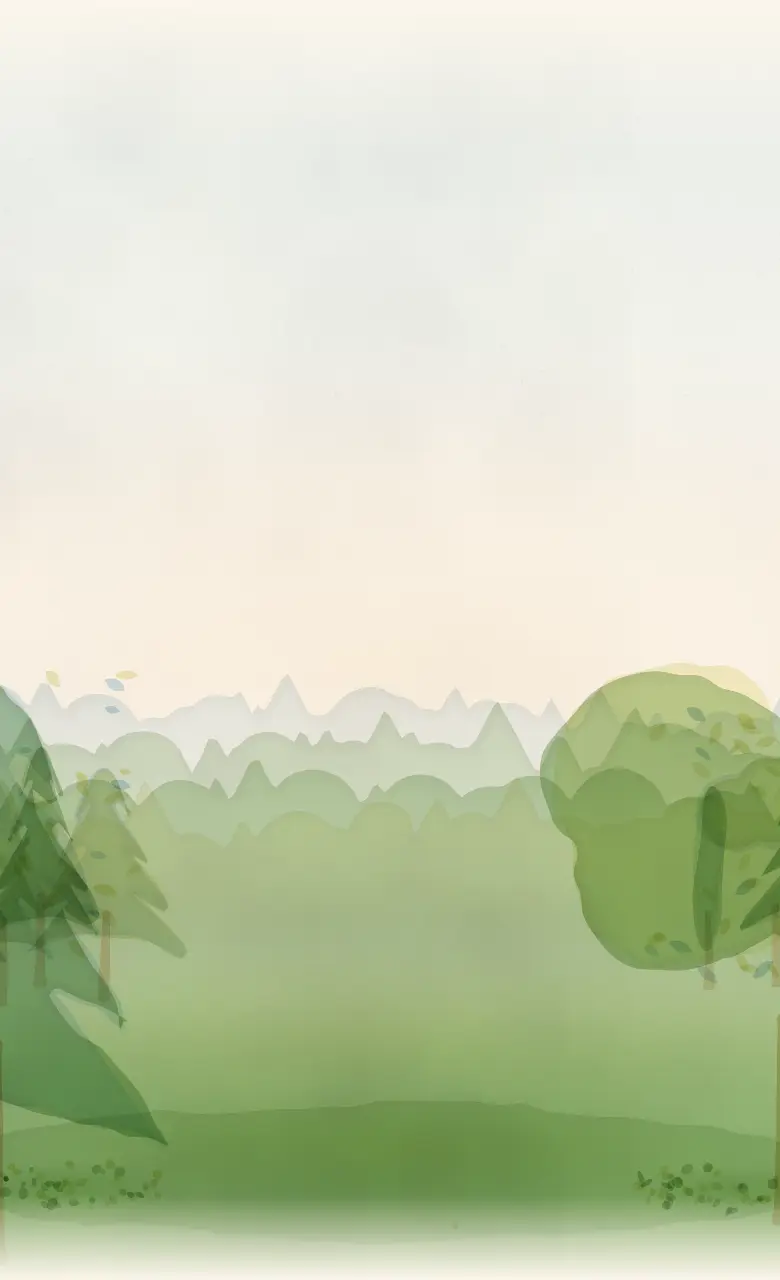
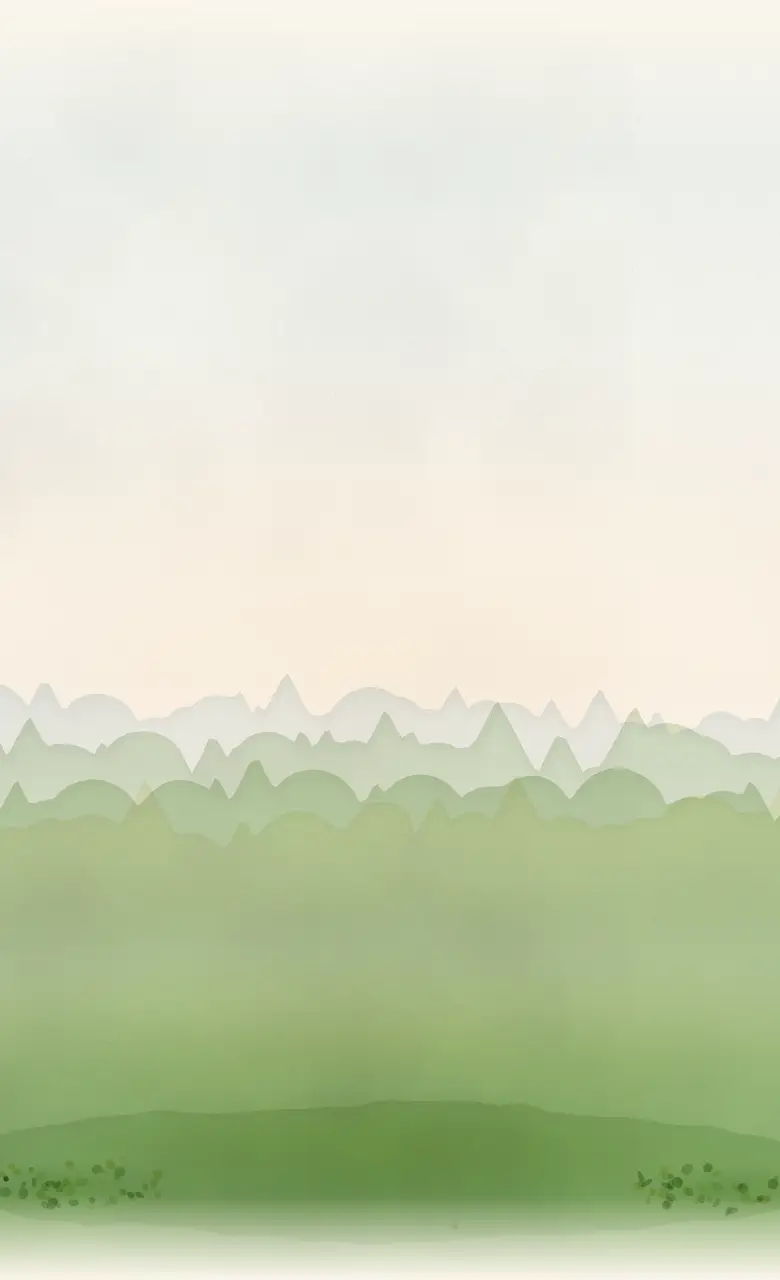
工房ホームページ：森の時間（風でしなる木・飛んできて止まる鳥・雲の影）
- 森の木を部品にして、そよ風と端から端へ渡る突風で、根元を軸にわずかにしなる（木ごとのばね）
- ヤマガラが飛んできて世界樹の枝や洞窟の屋根に止まり、しばらくして飛び去る（昼だけ）。遠くの空を群れが渡ることも
- 雲の影が地面を横切り、その間は陽の光が薄れる（昼だけ）。突風で葉がさらわれる

diff --git a/app.js b/app.js
@@ -1,7 +1,7 @@
 (() => {
   'use strict';
   // 台帳（works.json）は、組み立ての時にここへ流しこむ（ページの外から文字は入らない）
-  const DATA = {"places":[{"id":"roots","name":"根元の工房","sub":"地図と道具","line":"会社の道具を、AIとつくる作業場。連載の中身を、触れる地図と道具にしました。"},{"id":"branch","name":"枝","sub":"カードの花","line":"節目に咲く、仕掛けつきのカード。LINE で送れます。"},{"id":"spring","name":"泉","sub":"音楽","line":"AI音楽工房の MV。工房が企画し、BGM&V Studio が制作しています。"},{"id":"cave","name":"洞窟","sub":"連載と動画","line":"経営者のための連載「AI内製化の羅針盤」と、記事の動画。"},{"id":"cloud","name":"雲の上","sub":"旅","line":"本物の旅のしおりと、想像の世界旅行。"}],"notice":["当工房では職人が気ままに作っているため、突然変更が入ったり、途中でとまっているコンテンツがあったりします。","これは作成途中をリアルタイムにお見せする趣旨のものですので、作りかけの雰囲気も含めて楽しんでもらい、成長を見守っていただけたら幸いです。"],"voices":{"調整中":["ちょっと調整中。見てもいいけど変なところがあっても気にしないでね。","いま、ねじを締め直しているところ。動くけど、ときどきガタッとするかも。","仕上げの真っ最中！ 気づいたことがあったら、そっと教えてね。","ただいま磨き中。ピカピカになるまで、もう少し。"],"作りかけ":["ただいま作りかけ。リアルタイム進行中。","まだ骨組みだけど、のぞいていってね。","作っている途中をそのまま見せちゃうよ。明日には変わってるかも！","工房の机の上で、いま組み立て中。"],"準備中":["今作成中だよ！もうすぐ公開するね！","まだ種の中。芽が出たら、ここでお知らせするね。","いま、絵の具を溶いているところ。もう少しだけ待っててね。","職人がこっそり仕込み中。お楽しみに！"]},"works":[{"place":"roots","group":"3Dの地図","kind":"触れる","name":"4つの島の航海図（利益マップ）","note":"「何から入れると儲かる？」を、3Dの海図に。","url":"https://tatatasan323-cell.github.io/note-app/"},{"place":"roots","group":"3Dの地図","kind":"触れる","name":"天空の城への道（内製化ロードマップ）","note":"6つの関門を越えて、天空の城へ。","url":"https://tatatasan323-cell.github.io/note-app/road.html"},{"place":"roots","group":"3Dの地図","kind":"触れる","name":"AIの全体地図（6層＋4横断面）","note":"会社のAIの仕組みを、6つの層で見る。","url":"https://tatatasan323-cell.github.io/note-app/arch.html"},{"place":"roots","group":"3Dの地図","kind":"触れる","name":"そもそもAIって？ 5部作の地図","note":"「そもそもAIって？」5本の地図。","url":"https://tatatasan323-cell.github.io/note-app/aimap/"},{"place":"roots","group":"道具","kind":"触れる","name":"城 ─ 経営ステータス","note":"社長の一枚画面。架空の会社で動くデモ。","url":"https://tatatasan323-cell.github.io/castle/"},{"place":"roots","group":"道具","kind":"触れる","name":"転記ゼロ（tenki-zero 体験版）","note":"転記の手作業をなくす仕組みを、ブラウザで試す。","url":"https://tatatasan323-cell.github.io/tenki-zero/"},{"place":"roots","group":"手引き","kind":"読む","name":"AIエージェント利用ガイド","note":"部下としてハーネスする。社内で配れる手引き。","url":"https://tatatasan323-cell.github.io/note-app/ai-agent-guide.html"},{"place":"roots","group":"手引き","kind":"読む","name":"乗っ取り対策の手引き","note":"パスキーでも守れない、2つの穴。","url":"https://tatatasan323-cell.github.io/note-app/security-guide.html"},{"place":"roots","group":"手引き","kind":"読む","name":"会社のセキュリティ段階表","note":"自社の段階を確かめる表。","url":"https://tatatasan323-cell.github.io/note-app/security-levels.html"},{"place":"roots","group":"時報","kind":"読む","name":"ＡＩ内製化時報 第001号","note":"システムプロンプト、八割削除。","url":"https://tatatasan323-cell.github.io/note-app/jihou-001.html"},{"place":"roots","group":"時報","kind":"読む","name":"ＡＩ内製化時報 第002号","note":"穴を空けたのはAI、突いたのもAI。","url":"https://tatatasan323-cell.github.io/note-app/jihou-002.html"},{"place":"roots","group":"工房のこれから","kind":"歩く","status":"準備中","name":"世界樹の村（3Dで歩ける町）","note":"この地図の本から入って、村を歩けるようにします。","url":""},{"place":"branch","group":"カード","kind":"触れる","name":"ハロウィン招待状 ─ おばけの庭へようこそ","note":"おばけに触れると、音と豆知識。","url":"https://tatatasan323-cell.github.io/gimmick-cards/halloween/"},{"place":"branch","group":"カード","kind":"触れる","name":"とろけて聖夜 ─ おかしな港町","note":"宝石をはじき、ステンドグラスを割り、氷を削る冬の港町（動く3D）。","url":"https://tatatasan323-cell.github.io/gimmick-cards/christmas-town/"},{"place":"branch","group":"カード","kind":"触れる","name":"とろけて聖夜 ─ X'mas グリーティングカード","note":"港町とつながるカード。","url":"https://tatatasan323-cell.github.io/gimmick-cards/christmas-town/card.html"},{"place":"branch","group":"カード","kind":"触れる","status":"調整中","name":"正月のカード ─ 作品の一覧","note":"正月のカード 76 作。絵を押すと、さわって動く本物が開きます。","url":"https://ai-naiseika.github.io/cards/shogatsu/"},{"place":"branch","group":"カード","kind":"触れる","status":"作りかけ","name":"送る予定 ─ 節目のカード","note":"カードを、あとで送るための予定。時間になったら、スマホのカレンダーが知らせます。","url":"https://ai-naiseika.github.io/cards/yotei/"},{"place":"spring","group":"MV","kind":"見る","name":"雨上がりの小径 ― 水たまりを、跳んでいたころ","note":"最初の MV。","date":"2026-10-06","url":"https://youtu.be/yi53ACtNxp8"},{"place":"spring","group":"MV","kind":"見る","name":"パンプキン・ポン！ ― ハロウィンの夜のドキドキ","note":"切り絵の魔女とモンスターの踊り。","date":"2026-10-14","url":"https://youtu.be/uFx4Vcr8o8A"},{"place":"spring","group":"MV","kind":"見る","name":"Friends Around the Table ─ テーブルに集まれ！","note":"クリスマス3部作の1本目。","date":"2026-10-19","url":"https://youtu.be/pEvqS5da3-s"},{"place":"spring","group":"MV","kind":"見る","name":"Christmas Feels Like Being ─ きみといる、それがクリスマス","note":"クリスマス3部作の2本目。","date":"2026-10-20","url":"https://youtu.be/Z6vJkx9_u-s"},{"place":"spring","group":"MV","kind":"見る","name":"Singing Glory ─ グローリー・グローリー！","note":"クリスマス3部作の3本目。","date":"2026-10-23","url":"https://youtu.be/oR3KyE3Zmxo"},{"place":"cave","group":"記事の動画","kind":"見る","name":"AI導入、なぜ罠にはまる？ ─ 天空の城へ続く「6つの関門」","note":"","date":"2026-10-13","url":"https://youtu.be/-Dja11xVGzQ"},{"place":"cave","group":"記事の動画","kind":"見る","name":"AI導入、まず何から？ ─ 儲けにつながる「4つの島」の航海図","note":"","date":"2026-10-10","url":"https://youtu.be/xKATNxc-q50"},{"place":"cave","group":"記事の動画","kind":"見る","name":"動画生成AIなしで描いた26の画風 ── コードで描くアニメーション見本帳","note":"","date":"2026-10-07","url":"https://youtu.be/dQ2MLnKi8rE"},{"place":"cave","group":"記事の動画","kind":"見る","name":"DeepSeekなど中国AIは業務に使っていい？ ー 決め手は性能でも価格でもなく「調達」","note":"","date":"2026-10-06","url":"https://youtu.be/P4EKVp7NFms"},{"place":"cave","group":"記事の動画","kind":"見る","name":"「AIで、仕事は消えるのか」──ある会社の \"未来の一日\"【朗読ストーリー】","note":"","date":"2026-08-15","url":"https://youtu.be/s-KqdbO6xWk"},{"place":"cave","group":"記事の動画","kind":"見る","name":"【HTMLとは？ Pythonとは？】 AI内製化の全体像が4分で分かる見取り図","note":"","date":"2026-07-27","url":"https://youtu.be/c1A3KVXweG0"},{"place":"cave","group":"記事の動画","kind":"見る","name":"【スクール不要】月3,000円で始めるAI内製化／総集編・全8話","note":"","date":"2026-07-03","url":"https://youtu.be/3dDNd_MuB0Y"},{"place":"cave","group":"物語","kind":"読む","name":"未来の一日 ─ どこにでもある会社の朝","note":"朗読ストーリーの本。","url":"https://tatatasan323-cell.github.io/note-app/mirai/"},{"place":"cave","group":"連載","kind":"読む","date":"2026-10-19","name":"AI利用、どこから始めるか。答えは「1人」と「1つの痛み」","url":"https://note.com/ai_naiseika/n/n27912da5b3da"},{"place":"cave","group":"連載","kind":"読む","date":"2026-10-13","name":"「スクールもコンサルも要らない」の、本当の意味","url":"https://note.com/ai_naiseika/n/n51217db465e9"},{"place":"cave","group":"連載","kind":"読む","date":"2026-10-12","name":"前橋の観光案内を、AIと2日で作る ー 「確かめた度合い」を隠さない作り方","url":"https://note.com/ai_naiseika/n/n5c6551d1beac"},{"place":"cave","group":"連載","kind":"読む","date":"2026-10-12","name":"工房からの警告 再び ー AIに任せていい所、いけない所","url":"https://note.com/ai_naiseika/n/neb45bbba31cf"},{"place":"cave","group":"連載","kind":"読む","date":"2026-10-10","name":"AIエージェントがあるのに、仕組みを作る理由 ー 内製化すべき2つの場所","url":"https://note.com/ai_naiseika/n/n667d22b71479"},{"place":"cave","group":"連載","kind":"読む","date":"2026-10-07","name":"会話だけで動画を作る ー【脱・動画生成】AIアニメーションの可能性","url":"https://note.com/ai_naiseika/n/na5e82389ac72"},{"place":"cave","group":"連載","kind":"読む","date":"2026-10-06","name":"工房からの警告 ー 「AIが勝手に動き回る？」報道の真偽と、守るべき場所","url":"https://note.com/ai_naiseika/n/n4c308409efd9"},{"place":"cave","group":"連載","kind":"読む","date":"2026-10-03","name":"ある日突然の「アカバン」 ー 生成AIサブスクの落とし穴","url":"https://note.com/ai_naiseika/n/n8923fd964394"},{"place":"cave","group":"連載","kind":"読む","date":"2026-09-29","name":"AI巨額投資の行く末 ー いつか来る「ババ抜き」ゲームの終わり","url":"https://note.com/ai_naiseika/n/nc9e8207bcf78"},{"place":"cave","group":"連載","kind":"読む","date":"2026-09-28","name":"パスキーも乗っ取られる時代に。必ずすべきセキュリティ対策とは。","url":"https://note.com/ai_naiseika/n/n5b747190fa6e"},{"place":"cave","group":"連載","kind":"読む","date":"2026-09-27","name":"AI暴走論と終末論のさなかで ー あなたがすべき一手とは","url":"https://note.com/ai_naiseika/n/nf04f65023439"},{"place":"cave","group":"連載","kind":"読む","date":"2026-09-21","name":"奇跡の37手から10年。中国AIの実力と、日本企業が引くべき一線。","url":"https://note.com/ai_naiseika/n/n31214e08120e"},{"place":"cave","group":"連載","kind":"読む","date":"2026-09-20","name":"AI依存症に陥らないためのガイド ー 「AIに聞く/指示する」2つの違い","url":"https://note.com/ai_naiseika/n/n4193a3063552"},{"place":"cave","group":"連載","kind":"読む","date":"2026-09-14","name":"あなたのAI、期待通り動きますか？ ー AIの力を引き出すための思考法","url":"https://note.com/ai_naiseika/n/n7e4462f1908f"},{"place":"cave","group":"連載","kind":"読む","date":"2026-09-08","name":"バックオフィスが消える日。社内ステータスがリアルに見える未来への羅針盤。","url":"https://note.com/ai_naiseika/n/n07f8688e64df"},{"place":"cave","group":"連載","kind":"読む","date":"2026-08-31","name":"AIが空けた穴を、別のAIが5日で見つけて突く ── 8月までのAI事故と、私の工房の点検結果","url":"https://note.com/ai_naiseika/n/ned77cf0c294e"},{"place":"cave","group":"連載","kind":"読む","date":"2026-08-26","name":"AIのこれから ─ 「情報の土台」を持つことの意味","url":"https://note.com/ai_naiseika/n/n54fd60e90f04"},{"place":"cave","group":"連載","kind":"読む","date":"2026-08-24","name":"AI最前線 ─ 代表5社の現在地と、内製化に使うべき道具","url":"https://note.com/ai_naiseika/n/n06bea781e796"},{"place":"cave","group":"連載","kind":"読む","date":"2026-08-17","name":"OpenAIという物語 ─ 「人類のためのAI」は、どこへ向かっているのか","url":"https://note.com/ai_naiseika/n/n12816bc47432"},{"place":"cave","group":"連載","kind":"読む","date":"2026-08-11","name":"70年というAIの歩み ─ その挑戦と、“ 奇跡の一手 ” と、一本の論文","url":"https://note.com/ai_naiseika/n/n3471aeed4c26"},{"place":"cave","group":"連載","kind":"読む","date":"2026-08-01","name":"AIとは本当は何なのか　優秀な相棒？　頼れる相談役？　得体のしれない何か？","url":"https://note.com/ai_naiseika/n/n33eadda7b1b0"},{"place":"cave","group":"連載","kind":"読む","date":"2026-07-31","name":"経営者が知るべき、最後まで残る仕事 ─ AIが連れて行く “異世界” の話","url":"https://note.com/ai_naiseika/n/ne340418a0949"},{"place":"cave","group":"連載","kind":"読む","date":"2026-07-28","name":"Anthropicが、自社のAI開発ツールの内部指示を8割以上削除。その真意は？","url":"https://note.com/ai_naiseika/n/nec9184d934b1"},{"place":"cave","group":"連載","kind":"読む","date":"2026-07-27","name":"HTMLとは？ Pythonとは？ ─ 目指す内製化を一目で理解する見取り図","url":"https://note.com/ai_naiseika/n/ne47dde16170f"},{"place":"cave","group":"連載","kind":"読む","date":"2026-07-23","name":"AIは本当に安全なのか？ 世間で騒がれているプロンプトインジェクションを回避する唯一の方法とは？","url":"https://note.com/ai_naiseika/n/nd3d82deb2f4f"},{"place":"cave","group":"連載","kind":"読む","date":"2026-07-20","name":"その事務仕事いつまでやるのですか？【２】　例えば転記作業が無くなる日","url":"https://note.com/ai_naiseika/n/n5f46bef5c41b"},{"place":"cave","group":"連載","kind":"読む","date":"2026-07-12","name":"その事務仕事いつまでやるのですか？【１】　例えば明細を放り込むだけのツール","url":"https://note.com/ai_naiseika/n/n56e563d80e2a"},{"place":"cave","group":"連載","kind":"読む","date":"2026-07-06","name":"AI導入、知らないと失敗する ─ 成功に近づくための「内製化ロードマップ」","url":"https://note.com/ai_naiseika/n/nbf98e9add127"},{"place":"cave","group":"連載","kind":"読む","date":"2026-07-04","name":"ぶっちゃけ、AIは何から入れると儲かる？ ─ 経営者のための “利益” の地図","url":"https://note.com/ai_naiseika/n/nb7e3a2ca7fca"},{"place":"cave","group":"連載","kind":"読む","date":"2026-06-29","name":"繰り返し定型作業をAIで ─ 一度の “仕組み” が大切","url":"https://note.com/ai_naiseika/n/n9462746fd8ba"},{"place":"cave","group":"連載","kind":"読む","date":"2026-06-22","name":"メールは良いのに、AIはダメ？ ─ 会社の情報を “どこまで外に出すか”","url":"https://note.com/ai_naiseika/n/n295bc71d253d"},{"place":"cave","group":"連載","kind":"読む","date":"2026-06-15","name":"プロトタイプは早い、本番はその先 ─ 内製化を「育てる」ということ","url":"https://note.com/ai_naiseika/n/n4f8ea3f4696d"},{"place":"cave","group":"連載","kind":"読む","date":"2026-06-12","name":"バイブコーディングが通用しなくなる日 ─ AIに渡す『要件定義』の話","url":"https://note.com/ai_naiseika/n/n5f043fb74a72"},{"place":"cave","group":"連載","kind":"読む","date":"2026-06-09","name":"AIは嘘をつかない。けれど、あなたに「忖度」する","url":"https://note.com/ai_naiseika/n/n34c94b0c2a20"},{"place":"cave","group":"連載","kind":"読む","date":"2026-06-04","name":"AIと迷走しないために、最初にやるべきこと","url":"https://note.com/ai_naiseika/n/nb72e3552d43d"},{"place":"cave","group":"連載","kind":"読む","date":"2026-05-31","name":"AIエージェントを、今日入れる ─ 使い方も、AIに聞けばいい","url":"https://note.com/ai_naiseika/n/n808d67e92440"},{"place":"cave","group":"連載","kind":"読む","date":"2026-05-26","name":"「こうしたい」と伝えるだけで、何かが作れる時代","url":"https://note.com/ai_naiseika/n/n912fbc83f1c6"},{"place":"cave","group":"連載","kind":"読む","date":"2026-05-25","name":"料理人だった私が、AI内製化でシステムを作れる理由","url":"https://note.com/ai_naiseika/n/nd6a51b98694c"},{"place":"cave","group":"連載","kind":"読む","date":"2026-05-18","name":"AIを学ぶのに「スクール」「コンサル」が要らない新時代","url":"https://note.com/ai_naiseika/n/ndfc95eb3f0fa"},{"place":"cloud","group":"旅のしおり","kind":"使う","name":"前橋まちあるき（12/20 まで）","note":"芸術祭と「詩のまち」を歩く案内。確かめた度合いを印で示す。","url":"https://tatatasan323-cell.github.io/note-app/tabi/maebashi/"},{"place":"cloud","group":"旅のしおり","kind":"使う","name":"松本まちあるき","note":"松本駅から美ヶ原温泉まで、ゆるく歩く参考メモ（11/7〜8 の例）。","url":"https://tatatasan323-cell.github.io/note-app/tabi/matsumoto-burari/"},{"place":"cloud","group":"世界旅行","kind":"見る","name":"想像の世界旅行","note":"雲に乗って、想像だけで世界を旅する部屋を作っています。","status":"準備中","url":""}],"links":[{"name":"note「AI内製化の羅針盤」","url":"https://note.com/ai_naiseika"},{"name":"YouTube「AI内製化工房 MITA」","url":"https://www.youtube.com/@ai_naiseika_mita"},{"name":"X @ai_naiseika","url":"https://x.com/ai_naiseika"},{"name":"音楽 BGM&V Studio（AI音楽工房の制作）","url":"https://www.youtube.com/@BackgroundMusicVideoStudio"}],"music":{"settings":{"volume":0.7,"overlap":4,"fade_in":4},"rules":[{"place":"roots","song":"03"},{"months":[12,1,2],"hours":[16,5],"song":"06"},{"hours":[5,11],"song":"01"},{"hours":[11,16],"songs":["04","05"]},{"hours":[16,5],"song":"02"}],"songs":[{"no":"01","title":"朝つゆの森","note":"朝の光が、葉の先の露をひとつずつ照らしていく森。チェレスタとオルゴールがきらきらと目をさまし、ハープとグロッケン、カリンバが続きます。フルートは、遠くで鳴く小鳥のように。","trivia":["チェレスタは、パリの楽器製作者オーギュスト・ミュステルが1886年に特許をとった楽器。","チャイコフスキーの『くるみ割り人形』の「金平糖の踊り」は、チェレスタを使った曲として有名。"],"file":"bgm/01.m4a","bpm":68.0,"ready":true},{"no":"02","title":"ほたるの灯る夜","note":"日が落ちて、森にほたるの小さな灯りがともる夜。チェレスタとオルゴール、ハープが静かに瞬き、言葉のないコーラスと鈴の音が、闇をやさしく包みます。","trivia":["オルゴールの歴史は1796年、ジュネーブの時計職人アントワーヌ・ファーブルの発明から始まったとされる。"],"file":"bgm/02.m4a","bpm":58.75,"ready":true},{"no":"03","title":"世界樹への祈り","note":"工房の根元で、世界樹に手を当てて祈るひととき。ケルトのハープが静かに語り、ティンホイッスルが風のように、チェロが大地のように深く響きます。","trivia":["アイルランドの国章はハープ。大統領や大臣の印章にも、アイルランドのユーロ硬貨にも描かれている。","国章のハープのお手本は、ダブリンのトリニティ・カレッジの博物館に残る14世紀のハープ。"],"file":"bgm/03.m4a","bpm":89.1,"ready":true},{"no":"04","title":"妖精たちのワルツ","note":"昼下がりの木もれ日の中、妖精たちが輪になって踊る3拍子。オルゴールとチェレスタがくるくる回り、ピチカートの弦が足どりを刻み、フルートが軽やかに舞います。","trivia":["ワルツは4分の3拍子の踊りの曲。1814〜15年のウィーン会議をきっかけに、ヨーロッパ中へ広まった。","『美しく青きドナウ』は「ワルツ王」ヨハン・シュトラウス2世の曲。1867年にウィーンで初演された。"],"file":"bgm/04.m4a","bpm":95.7,"ready":true},{"no":"05","title":"雨上がりのしずく","note":"雨がやんで、葉から落ちるしずくが光る森。ピアノとチェレスタが雫のように、カリンバがぽつぽつと、ウィンドチャイムが風にゆれて鳴ります。","trivia":["カリンバはアフリカの「親指ピアノ」の仲間。金属の鍵の親指ピアノは、約1300年前にザンベジ川のほとりで生まれたという。","ピアノの黒鍵だけを弾くと、五つの音でできた音階「ペンタトニック（五音音階）」になる。"],"file":"bgm/05.m4a","bpm":64.6,"ready":true},{"no":"06","title":"雪ふる森の冬ごもり","note":"雪が音を吸いこんで、しんと静かな冬の夜の森。チェレスタとオルゴール、ハープがやわらかく降り、グラスハーモニカの澄んだ響きが、雪明かりのように広がります。","trivia":["グラスハーモニカは、フランクリンが1761年に完成させた楽器。回るガラスの器のふちに、ぬれた指で触れて鳴らす。","モーツァルトも1791年、グラスハーモニカの入った「アダージョとロンド」（K.617）を書いた。"],"file":"bgm/06.m4a","bpm":68.0,"ready":true}]}};
+  const DATA = {"places":[{"id":"roots","name":"根元の工房","sub":"地図と道具","line":"会社の道具を、AIとつくる作業場。連載の中身を、触れる地図と道具にしました。"},{"id":"branch","name":"枝","sub":"カードの花","line":"節目に咲く、仕掛けつきのカード。LINE で送れます。"},{"id":"spring","name":"泉","sub":"音楽","line":"AI音楽工房の MV。工房が企画し、BGM&V Studio が制作しています。"},{"id":"cave","name":"洞窟","sub":"連載と動画","line":"経営者のための連載「AI内製化の羅針盤」と、記事の動画。"},{"id":"cloud","name":"雲の上","sub":"旅","line":"本物の旅のしおりと、想像の世界旅行。"}],"notice":["当工房では職人が気ままに作っているため、突然変更が入ったり、途中でとまっているコンテンツがあったりします。","これは作成途中をリアルタイムにお見せする趣旨のものですので、作りかけの雰囲気も含めて楽しんでもらい、成長を見守っていただけたら幸いです。"],"voices":{"調整中":["ちょっと調整中。見てもいいけど変なところがあっても気にしないでね。","いま、ねじを締め直しているところ。動くけど、ときどきガタッとするかも。","仕上げの真っ最中！ 気づいたことがあったら、そっと教えてね。","ただいま磨き中。ピカピカになるまで、もう少し。"],"作りかけ":["ただいま作りかけ。リアルタイム進行中。","まだ骨組みだけど、のぞいていってね。","作っている途中をそのまま見せちゃうよ。明日には変わってるかも！","工房の机の上で、いま組み立て中。"],"準備中":["今作成中だよ！もうすぐ公開するね！","まだ種の中。芽が出たら、ここでお知らせするね。","いま、絵の具を溶いているところ。もう少しだけ待っててね。","職人がこっそり仕込み中。お楽しみに！"]},"works":[{"place":"roots","group":"3Dの地図","kind":"触れる","name":"4つの島の航海図（利益マップ）","note":"「何から入れると儲かる？」を、3Dの海図に。","url":"https://tatatasan323-cell.github.io/note-app/"},{"place":"roots","group":"3Dの地図","kind":"触れる","name":"天空の城への道（内製化ロードマップ）","note":"6つの関門を越えて、天空の城へ。","url":"https://tatatasan323-cell.github.io/note-app/road.html"},{"place":"roots","group":"3Dの地図","kind":"触れる","name":"AIの全体地図（6層＋4横断面）","note":"会社のAIの仕組みを、6つの層で見る。","url":"https://tatatasan323-cell.github.io/note-app/arch.html"},{"place":"roots","group":"3Dの地図","kind":"触れる","name":"そもそもAIって？ 5部作の地図","note":"「そもそもAIって？」5本の地図。","url":"https://tatatasan323-cell.github.io/note-app/aimap/"},{"place":"roots","group":"道具","kind":"触れる","name":"城 ─ 経営ステータス","note":"社長の一枚画面。架空の会社で動くデモ。","url":"https://tatatasan323-cell.github.io/castle/"},{"place":"roots","group":"道具","kind":"触れる","name":"転記ゼロ（tenki-zero 体験版）","note":"転記の手作業をなくす仕組みを、ブラウザで試す。","url":"https://tatatasan323-cell.github.io/tenki-zero/"},{"place":"roots","group":"手引き","kind":"読む","name":"AIエージェント利用ガイド","note":"部下としてハーネスする。社内で配れる手引き。","url":"https://tatatasan323-cell.github.io/note-app/ai-agent-guide.html"},{"place":"roots","group":"手引き","kind":"読む","name":"乗っ取り対策の手引き","note":"パスキーでも守れない、2つの穴。","url":"https://tatatasan323-cell.github.io/note-app/security-guide.html"},{"place":"roots","group":"手引き","kind":"読む","name":"会社のセキュリティ段階表","note":"自社の段階を確かめる表。","url":"https://tatatasan323-cell.github.io/note-app/security-levels.html"},{"place":"roots","group":"時報","kind":"読む","name":"ＡＩ内製化時報 第001号","note":"システムプロンプト、八割削除。","url":"https://tatatasan323-cell.github.io/note-app/jihou-001.html"},{"place":"roots","group":"時報","kind":"読む","name":"ＡＩ内製化時報 第002号","note":"穴を空けたのはAI、突いたのもAI。","url":"https://tatatasan323-cell.github.io/note-app/jihou-002.html"},{"place":"roots","group":"工房のこれから","kind":"歩く","status":"準備中","name":"世界樹の村（3Dで歩ける町）","note":"この地図の本から入って、村を歩けるようにします。","url":""},{"place":"branch","group":"カード","kind":"触れる","name":"ハロウィン招待状 ─ おばけの庭へようこそ","note":"おばけに触れると、音と豆知識。","url":"https://tatatasan323-cell.github.io/gimmick-cards/halloween/"},{"place":"branch","group":"カード","kind":"触れる","name":"とろけて聖夜 ─ おかしな港町","note":"宝石をはじき、ステンドグラスを割り、氷を削る冬の港町（動く3D）。","url":"https://tatatasan323-cell.github.io/gimmick-cards/christmas-town/"},{"place":"branch","group":"カード","kind":"触れる","name":"とろけて聖夜 ─ X'mas グリーティングカード","note":"港町とつながるカード。","url":"https://tatatasan323-cell.github.io/gimmick-cards/christmas-town/card.html"},{"place":"branch","group":"カード","kind":"触れる","status":"調整中","name":"正月のカード ─ 作品の一覧","note":"正月のカード 76 作。絵を押すと、さわって動く本物が開きます。","url":"https://ai-naiseika.github.io/cards/shogatsu/"},{"place":"branch","group":"カード","kind":"触れる","status":"作りかけ","name":"送る予定 ─ 節目のカード","note":"カードを、あとで送るための予定。時間になったら、スマホのカレンダーが知らせます。","url":"https://ai-naiseika.github.io/cards/yotei/"},{"place":"spring","group":"MV","kind":"見る","name":"雨上がりの小径 ― 水たまりを、跳んでいたころ","note":"最初の MV。","date":"2026-10-06","url":"https://youtu.be/yi53ACtNxp8"},{"place":"spring","group":"MV","kind":"見る","name":"パンプキン・ポン！ ― ハロウィンの夜のドキドキ","note":"切り絵の魔女とモンスターの踊り。","date":"2026-10-14","url":"https://youtu.be/uFx4Vcr8o8A"},{"place":"spring","group":"MV","kind":"見る","name":"Friends Around the Table ─ テーブルに集まれ！","note":"クリスマス3部作の1本目。","date":"2026-10-19","url":"https://youtu.be/pEvqS5da3-s"},{"place":"spring","group":"MV","kind":"見る","name":"Christmas Feels Like Being ─ きみといる、それがクリスマス","note":"クリスマス3部作の2本目。","date":"2026-10-20","url":"https://youtu.be/Z6vJkx9_u-s"},{"place":"spring","group":"MV","kind":"見る","name":"Singing Glory ─ グローリー・グローリー！","note":"クリスマス3部作の3本目。","date":"2026-10-23","url":"https://youtu.be/oR3KyE3Zmxo"},{"place":"cave","group":"記事の動画","kind":"見る","name":"AI導入、なぜ罠にはまる？ ─ 天空の城へ続く「6つの関門」","note":"","date":"2026-10-13","url":"https://youtu.be/-Dja11xVGzQ"},{"place":"cave","group":"記事の動画","kind":"見る","name":"AI導入、まず何から？ ─ 儲けにつながる「4つの島」の航海図","note":"","date":"2026-10-10","url":"https://youtu.be/xKATNxc-q50"},{"place":"cave","group":"記事の動画","kind":"見る","name":"動画生成AIなしで描いた26の画風 ── コードで描くアニメーション見本帳","note":"","date":"2026-10-07","url":"https://youtu.be/dQ2MLnKi8rE"},{"place":"cave","group":"記事の動画","kind":"見る","name":"DeepSeekなど中国AIは業務に使っていい？ ー 決め手は性能でも価格でもなく「調達」","note":"","date":"2026-10-06","url":"https://youtu.be/P4EKVp7NFms"},{"place":"cave","group":"記事の動画","kind":"見る","name":"「AIで、仕事は消えるのか」──ある会社の \"未来の一日\"【朗読ストーリー】","note":"","date":"2026-08-15","url":"https://youtu.be/s-KqdbO6xWk"},{"place":"cave","group":"記事の動画","kind":"見る","name":"【HTMLとは？ Pythonとは？】 AI内製化の全体像が4分で分かる見取り図","note":"","date":"2026-07-27","url":"https://youtu.be/c1A3KVXweG0"},{"place":"cave","group":"記事の動画","kind":"見る","name":"【スクール不要】月3,000円で始めるAI内製化／総集編・全8話","note":"","date":"2026-07-03","url":"https://youtu.be/3dDNd_MuB0Y"},{"place":"cave","group":"物語","kind":"読む","name":"未来の一日 ─ どこにでもある会社の朝","note":"朗読ストーリーの本。","url":"https://tatatasan323-cell.github.io/note-app/mirai/"},{"place":"cave","group":"連載","kind":"読む","date":"2026-10-19","name":"AI利用、どこから始めるか。答えは「1人」と「1つの痛み」","url":"https://note.com/ai_naiseika/n/n27912da5b3da"},{"place":"cave","group":"連載","kind":"読む","date":"2026-10-13","name":"「スクールもコンサルも要らない」の、本当の意味","url":"https://note.com/ai_naiseika/n/n51217db465e9"},{"place":"cave","group":"連載","kind":"読む","date":"2026-10-12","name":"前橋の観光案内を、AIと2日で作る ー 「確かめた度合い」を隠さない作り方","url":"https://note.com/ai_naiseika/n/n5c6551d1beac"},{"place":"cave","group":"連載","kind":"読む","date":"2026-10-12","name":"工房からの警告 再び ー AIに任せていい所、いけない所","url":"https://note.com/ai_naiseika/n/neb45bbba31cf"},{"place":"cave","group":"連載","kind":"読む","date":"2026-10-10","name":"AIエージェントがあるのに、仕組みを作る理由 ー 内製化すべき2つの場所","url":"https://note.com/ai_naiseika/n/n667d22b71479"},{"place":"cave","group":"連載","kind":"読む","date":"2026-10-07","name":"会話だけで動画を作る ー【脱・動画生成】AIアニメーションの可能性","url":"https://note.com/ai_naiseika/n/na5e82389ac72"},{"place":"cave","group":"連載","kind":"読む","date":"2026-10-06","name":"工房からの警告 ー 「AIが勝手に動き回る？」報道の真偽と、守るべき場所","url":"https://note.com/ai_naiseika/n/n4c308409efd9"},{"place":"cave","group":"連載","kind":"読む","date":"2026-10-03","name":"ある日突然の「アカバン」 ー 生成AIサブスクの落とし穴","url":"https://note.com/ai_naiseika/n/n8923fd964394"},{"place":"cave","group":"連載","kind":"読む","date":"2026-09-29","name":"AI巨額投資の行く末 ー いつか来る「ババ抜き」ゲームの終わり","url":"https://note.com/ai_naiseika/n/nc9e8207bcf78"},{"place":"cave","group":"連載","kind":"読む","date":"2026-09-28","name":"パスキーも乗っ取られる時代に。必ずすべきセキュリティ対策とは。","url":"https://note.com/ai_naiseika/n/n5b747190fa6e"},{"place":"cave","group":"連載","kind":"読む","date":"2026-09-27","name":"AI暴走論と終末論のさなかで ー あなたがすべき一手とは","url":"https://note.com/ai_naiseika/n/nf04f65023439"},{"place":"cave","group":"連載","kind":"読む","date":"2026-09-21","name":"奇跡の37手から10年。中国AIの実力と、日本企業が引くべき一線。","url":"https://note.com/ai_naiseika/n/n31214e08120e"},{"place":"cave","group":"連載","kind":"読む","date":"2026-09-20","name":"AI依存症に陥らないためのガイド ー 「AIに聞く/指示する」2つの違い","url":"https://note.com/ai_naiseika/n/n4193a3063552"},{"place":"cave","group":"連載","kind":"読む","date":"2026-09-14","name":"あなたのAI、期待通り動きますか？ ー AIの力を引き出すための思考法","url":"https://note.com/ai_naiseika/n/n7e4462f1908f"},{"place":"cave","group":"連載","kind":"読む","date":"2026-09-08","name":"バックオフィスが消える日。社内ステータスがリアルに見える未来への羅針盤。","url":"https://note.com/ai_naiseika/n/n07f8688e64df"},{"place":"cave","group":"連載","kind":"読む","date":"2026-08-31","name":"AIが空けた穴を、別のAIが5日で見つけて突く ── 8月までのAI事故と、私の工房の点検結果","url":"https://note.com/ai_naiseika/n/ned77cf0c294e"},{"place":"cave","group":"連載","kind":"読む","date":"2026-08-26","name":"AIのこれから ─ 「情報の土台」を持つことの意味","url":"https://note.com/ai_naiseika/n/n54fd60e90f04"},{"place":"cave","group":"連載","kind":"読む","date":"2026-08-24","name":"AI最前線 ─ 代表5社の現在地と、内製化に使うべき道具","url":"https://note.com/ai_naiseika/n/n06bea781e796"},{"place":"cave","group":"連載","kind":"読む","date":"2026-08-17","name":"OpenAIという物語 ─ 「人類のためのAI」は、どこへ向かっているのか","url":"https://note.com/ai_naiseika/n/n12816bc47432"},{"place":"cave","group":"連載","kind":"読む","date":"2026-08-11","name":"70年というAIの歩み ─ その挑戦と、“ 奇跡の一手 ” と、一本の論文","url":"https://note.com/ai_naiseika/n/n3471aeed4c26"},{"place":"cave","group":"連載","kind":"読む","date":"2026-08-01","name":"AIとは本当は何なのか　優秀な相棒？　頼れる相談役？　得体のしれない何か？","url":"https://note.com/ai_naiseika/n/n33eadda7b1b0"},{"place":"cave","group":"連載","kind":"読む","date":"2026-07-31","name":"経営者が知るべき、最後まで残る仕事 ─ AIが連れて行く “異世界” の話","url":"https://note.com/ai_naiseika/n/ne340418a0949"},{"place":"cave","group":"連載","kind":"読む","date":"2026-07-28","name":"Anthropicが、自社のAI開発ツールの内部指示を8割以上削除。その真意は？","url":"https://note.com/ai_naiseika/n/nec9184d934b1"},{"place":"cave","group":"連載","kind":"読む","date":"2026-07-27","name":"HTMLとは？ Pythonとは？ ─ 目指す内製化を一目で理解する見取り図","url":"https://note.com/ai_naiseika/n/ne47dde16170f"},{"place":"cave","group":"連載","kind":"読む","date":"2026-07-23","name":"AIは本当に安全なのか？ 世間で騒がれているプロンプトインジェクションを回避する唯一の方法とは？","url":"https://note.com/ai_naiseika/n/nd3d82deb2f4f"},{"place":"cave","group":"連載","kind":"読む","date":"2026-07-20","name":"その事務仕事いつまでやるのですか？【２】　例えば転記作業が無くなる日","url":"https://note.com/ai_naiseika/n/n5f46bef5c41b"},{"place":"cave","group":"連載","kind":"読む","date":"2026-07-12","name":"その事務仕事いつまでやるのですか？【１】　例えば明細を放り込むだけのツール","url":"https://note.com/ai_naiseika/n/n56e563d80e2a"},{"place":"cave","group":"連載","kind":"読む","date":"2026-07-06","name":"AI導入、知らないと失敗する ─ 成功に近づくための「内製化ロードマップ」","url":"https://note.com/ai_naiseika/n/nbf98e9add127"},{"place":"cave","group":"連載","kind":"読む","date":"2026-07-04","name":"ぶっちゃけ、AIは何から入れると儲かる？ ─ 経営者のための “利益” の地図","url":"https://note.com/ai_naiseika/n/nb7e3a2ca7fca"},{"place":"cave","group":"連載","kind":"読む","date":"2026-06-29","name":"繰り返し定型作業をAIで ─ 一度の “仕組み” が大切","url":"https://note.com/ai_naiseika/n/n9462746fd8ba"},{"place":"cave","group":"連載","kind":"読む","date":"2026-06-22","name":"メールは良いのに、AIはダメ？ ─ 会社の情報を “どこまで外に出すか”","url":"https://note.com/ai_naiseika/n/n295bc71d253d"},{"place":"cave","group":"連載","kind":"読む","date":"2026-06-15","name":"プロトタイプは早い、本番はその先 ─ 内製化を「育てる」ということ","url":"https://note.com/ai_naiseika/n/n4f8ea3f4696d"},{"place":"cave","group":"連載","kind":"読む","date":"2026-06-12","name":"バイブコーディングが通用しなくなる日 ─ AIに渡す『要件定義』の話","url":"https://note.com/ai_naiseika/n/n5f043fb74a72"},{"place":"cave","group":"連載","kind":"読む","date":"2026-06-09","name":"AIは嘘をつかない。けれど、あなたに「忖度」する","url":"https://note.com/ai_naiseika/n/n34c94b0c2a20"},{"place":"cave","group":"連載","kind":"読む","date":"2026-06-04","name":"AIと迷走しないために、最初にやるべきこと","url":"https://note.com/ai_naiseika/n/nb72e3552d43d"},{"place":"cave","group":"連載","kind":"読む","date":"2026-05-31","name":"AIエージェントを、今日入れる ─ 使い方も、AIに聞けばいい","url":"https://note.com/ai_naiseika/n/n808d67e92440"},{"place":"cave","group":"連載","kind":"読む","date":"2026-05-26","name":"「こうしたい」と伝えるだけで、何かが作れる時代","url":"https://note.com/ai_naiseika/n/n912fbc83f1c6"},{"place":"cave","group":"連載","kind":"読む","date":"2026-05-25","name":"料理人だった私が、AI内製化でシステムを作れる理由","url":"https://note.com/ai_naiseika/n/nd6a51b98694c"},{"place":"cave","group":"連載","kind":"読む","date":"2026-05-18","name":"AIを学ぶのに「スクール」「コンサル」が要らない新時代","url":"https://note.com/ai_naiseika/n/ndfc95eb3f0fa"},{"place":"cloud","group":"旅のしおり","kind":"使う","name":"前橋まちあるき（12/20 まで）","note":"芸術祭と「詩のまち」を歩く案内。確かめた度合いを印で示す。","url":"https://tatatasan323-cell.github.io/note-app/tabi/maebashi/"},{"place":"cloud","group":"旅のしおり","kind":"使う","name":"松本まちあるき","note":"松本駅から美ヶ原温泉まで、ゆるく歩く参考メモ（11/7〜8 の例）。","url":"https://tatatasan323-cell.github.io/note-app/tabi/matsumoto-burari/"},{"place":"cloud","group":"世界旅行","kind":"見る","name":"想像の世界旅行","note":"雲に乗って、想像だけで世界を旅する部屋を作っています。","status":"準備中","url":""}],"links":[{"name":"note「AI内製化の羅針盤」","url":"https://note.com/ai_naiseika"},{"name":"YouTube「AI内製化工房 MITA」","url":"https://www.youtube.com/@ai_naiseika_mita"},{"name":"X @ai_naiseika","url":"https://x.com/ai_naiseika"},{"name":"音楽 BGM&V Studio（AI音楽工房の制作）","url":"https://www.youtube.com/@BackgroundMusicVideoStudio"}],"trees":{"sizes":[[1405,473],[1455,1113]],"cells":[[-172,254,378,259,641,362,21,494,0,1],[-24,267,339,249,284,629,145,497,0,1],[90,275,312,239,895,629,246,498,0,1],[187,287,314,226,0,887,354,494,0,1],[344,351,221,167,969,0,462,499,0,0],[449,358,206,157,0,316,549,497,0,0],[811,346,211,161,1192,0,910,491,0,0],[875,338,281,178,686,0,1017,494,0,0],[984,300,294,212,316,887,1130,496,0,1],[1084,253,324,262,315,362,1237,493,0,1],[1179,248,313,265,0,362,1333,495,0,1],[1292,258,298,259,1021,362,1438,503,0,1],[-169,274,398,360,0,0,30,620,1,1],[-11,352,322,288,1131,0,150,630,1,1],[136,380,268,244,625,629,270,610,1,1],[283,436,217,198,840,887,392,620,1,1],[344,326,351,314,0,0,520,630,1,0],[752,324,331,300,353,0,918,610,1,0],[933,428,226,206,612,887,1046,620,1,1],[1027,378,282,256,0,629,1168,620,1,1],[1121,338,338,302,791,0,1290,630,1,1],[1215,272,389,352,400,0,1410,610,1,1]]},"music":{"settings":{"volume":0.7,"overlap":4,"fade_in":4},"rules":[{"place":"roots","song":"03"},{"months":[12,1,2],"hours":[16,5],"song":"06"},{"hours":[5,11],"song":"01"},{"hours":[11,16],"songs":["04","05"]},{"hours":[16,5],"song":"02"}],"songs":[{"no":"01","title":"朝つゆの森","note":"朝の光が、葉の先の露をひとつずつ照らしていく森。チェレスタとオルゴールがきらきらと目をさまし、ハープとグロッケン、カリンバが続きます。フルートは、遠くで鳴く小鳥のように。","trivia":["チェレスタは、パリの楽器製作者オーギュスト・ミュステルが1886年に特許をとった楽器。","チャイコフスキーの『くるみ割り人形』の「金平糖の踊り」は、チェレスタを使った曲として有名。"],"file":"bgm/01.m4a","bpm":68.0,"ready":true},{"no":"02","title":"ほたるの灯る夜","note":"日が落ちて、森にほたるの小さな灯りがともる夜。チェレスタとオルゴール、ハープが静かに瞬き、言葉のないコーラスと鈴の音が、闇をやさしく包みます。","trivia":["オルゴールの歴史は1796年、ジュネーブの時計職人アントワーヌ・ファーブルの発明から始まったとされる。"],"file":"bgm/02.m4a","bpm":58.75,"ready":true},{"no":"03","title":"世界樹への祈り","note":"工房の根元で、世界樹に手を当てて祈るひととき。ケルトのハープが静かに語り、ティンホイッスルが風のように、チェロが大地のように深く響きます。","trivia":["アイルランドの国章はハープ。大統領や大臣の印章にも、アイルランドのユーロ硬貨にも描かれている。","国章のハープのお手本は、ダブリンのトリニティ・カレッジの博物館に残る14世紀のハープ。"],"file":"bgm/03.m4a","bpm":89.1,"ready":true},{"no":"04","title":"妖精たちのワルツ","note":"昼下がりの木もれ日の中、妖精たちが輪になって踊る3拍子。オルゴールとチェレスタがくるくる回り、ピチカートの弦が足どりを刻み、フルートが軽やかに舞います。","trivia":["ワルツは4分の3拍子の踊りの曲。1814〜15年のウィーン会議をきっかけに、ヨーロッパ中へ広まった。","『美しく青きドナウ』は「ワルツ王」ヨハン・シュトラウス2世の曲。1867年にウィーンで初演された。"],"file":"bgm/04.m4a","bpm":95.7,"ready":true},{"no":"05","title":"雨上がりのしずく","note":"雨がやんで、葉から落ちるしずくが光る森。ピアノとチェレスタが雫のように、カリンバがぽつぽつと、ウィンドチャイムが風にゆれて鳴ります。","trivia":["カリンバはアフリカの「親指ピアノ」の仲間。金属の鍵の親指ピアノは、約1300年前にザンベジ川のほとりで生まれたという。","ピアノの黒鍵だけを弾くと、五つの音でできた音階「ペンタトニック（五音音階）」になる。"],"file":"bgm/05.m4a","bpm":64.6,"ready":true},{"no":"06","title":"雪ふる森の冬ごもり","note":"雪が音を吸いこんで、しんと静かな冬の夜の森。チェレスタとオルゴール、ハープがやわらかく降り、グラスハーモニカの澄んだ響きが、雪明かりのように広がります。","trivia":["グラスハーモニカは、フランクリンが1761年に完成させた楽器。回るガラスの器のふちに、ぬれた指で触れて鳴らす。","モーツァルトも1791年、グラスハーモニカの入った「アダージョとロンド」（K.617）を書いた。"],"file":"bgm/06.m4a","bpm":68.0,"ready":true}]}};
   const $ = (id) => document.getElementById(id);
   const PLACES = new Map(DATA.places.map((p) => [p.id, p]));
   const stage = $('stage'), ui = $('stageUi'), wrap = $('stageWrap'), labelsBox = $('labels'), prompt = $('prompt');
@@ -349,6 +349,7 @@
     skipBtn.hidden = true; closeBtn.hidden = false;
     prompt.textContent = '行き先の札を押してください';
     if (actx) bgmOn();
+    lifeStart();
   }
   function instantly(fn) { setCls('instant', true); fn(); void stage.offsetWidth; requestAnimationFrame(() => setCls('instant', false)); }
   function open(now) {
@@ -365,7 +366,7 @@
   function closeBook() {
     clearTimeout(timer);
     instantly(() => setCls('open', false));
-    bgmOff();
+    bgmOff(); lifeStop();
     state = 'closed'; closeBtn.hidden = true; skipBtn.hidden = true;
     prompt.textContent = '本をひらいて、行き先を選んでください';
   }
@@ -486,19 +487,147 @@
     const li = el('li'); li.append(a); $('links').append(li);
   }
 
+  // ---------- 森の時間：風・鳥・雲の影 ----------
+  // 本人 2026-10-24「落ち葉だけよりも、森を抜ける風に背景の木々がわずかにざわめいたり、鳥が飛んだり止まったり、太陽（光）の位置が変わったり、自然にできるだけ近い感じで」
+  //   木：1本（1組）ずつのばね。いつものそよ風と、ときどき端から端へ渡る突風に押されて、根元を軸にしなって戻る（行き過ぎて少し揺り返す）
+  //   鳥（メジロ）：昼だけ。飛んできて枝や洞窟の屋根に止まり、向きをかえ・ついばみ、しばらくして飛び去る。突風で飛び立つことも。遠くの空を群れが渡ることも
+  //   雲の影：昼だけ。地面を横切り、その間は陽の光が薄れる。陽の位置そのものは見る人の時刻のまま（早回しにしない）
+  const TR = DATA.trees, rnd = (a, b) => a + Math.random() * (b - a), now = () => performance.now() / 1000;
+  const trees = [], gusts = [], birds = [];
+  const treesW = wrap.querySelector('.trees-w'), birdsBox = stage.querySelector('.birds'), amb = ui.querySelector('.ambient');
+  const cloud = wrap.querySelector('.t-cloud'), glowEl = wrap.querySelector('.t-glow'), raysEl = wrap.querySelector('.t-rays'), wt = stage.querySelector('.w-tree');
+  if (TR) {   // 森の木の部品（森の地に掛け算で重ねる）。スマホは舞台の中（見える6組だけ）、PC は舞台の外の森の層の上（全部）
+    const fr = document.createDocumentFragment();
+    for (const c of TR.cells) for (const wide of [false, true]) {
+      if (!wide && c[9] !== 0) continue;
+      const [bx, by, bw, bh, ax, ay, px, py, front, sh] = c, [sw, shh] = TR.sizes[sh], e = el('i', 'tr s' + sh);
+      Object.assign(e.style, { width: `${bw}px`, height: `${bh}px`, backgroundSize: `${sw}px ${shh}px`, backgroundPosition: `${-ax}px ${-ay}px`, transformOrigin: `${px - bx}px ${py - by}px` });
+      if (wide) treesW.append(e); else { e.style.left = `${bx - 525}px`; e.style.top = `${by}px`; fr.append(e); }
+      trees.push({ e, c, wide, x: px, a: 0, v: 0, s: '', f: front ? rnd(0.42, 0.55) : rnd(0.55, 0.8), g: front ? 1.1 : 1 });
+    }
+    stage.querySelector('.forest-c').after(fr);
+  }
+  function placeTrees() {   // PC の木：森の層と同じ倍率・同じまん中（軸の点が森の絵の同じ所に来るよう、軸のまわりに縮める）
+    const cx = wrap.clientWidth / 2;
+    for (const t of trees) if (t.wide) { const [bx, by, , , , , px, py] = t.c; Object.assign(t.e.style, { left: `${cx + (px - 720) * scale - (px - bx)}px`, top: `${py * scale - (py - by)}px`, scale: String(scale) }); }
+  }
+  function wind(x, t) {   // x＝森の絵の横の位置。そよ風（右へ・強さがゆらぐ）＋渡っていく突風
+    let w = 0.16 + 0.1 * Math.sin(t * 0.29 + x * 0.004) + 0.06 * Math.sin(t * 0.87 + x * 0.013 + 1.7);
+    for (const g of gusts) { const u = (t - g.t0 - (g.d > 0 ? x - g.x0 : g.x0 - x) / g.c) / g.len; if (u > 0 && u < 1) w += g.d * g.a * Math.sin(Math.PI * u) ** 2; }
+    return w;
+  }
+  const day = () => { const d = new Date(); return light(d.getHours() * 60 + d.getMinutes()).night < 0.3; };
+  function gust(d = Math.random() < 0.75 ? 1 : -1) {
+    const g = { t0: now(), d, x0: d > 0 ? -80 : 1520, c: rnd(330, 470), a: rnd(0.6, 1.05), len: rnd(1.4, 2.2) };
+    gusts.push(g);
+    for (let i = 0, n = Math.round(rnd(3, 6)); i < n; i++) {   // 突風にさらわれる葉（舞台の木のあたりから、風の向きへ）
+      const x0 = rnd(20, 370), y0 = rnd(150, 420), dx = d * rnd(150, 260), dy = rnd(50, 150), r = d * rnd(240, 620), e = el('i', 'gleaf');
+      amb.append(e);
+      e.animate([{ transform: `translate(${x0}px,${y0}px) rotate(0deg)`, opacity: 0 }, { offset: 0.1, opacity: 0.85 }, { offset: 0.5, transform: `translate(${x0 + dx * 0.55}px,${y0 + dy * 0.25}px) rotate(${r * 0.5}deg)` },
+        { transform: `translate(${x0 + dx}px,${y0 + dy}px) rotate(${r}deg)`, opacity: 0 }], { duration: rnd(2600, 3800), delay: Math.max(0, (d > 0 ? x0 + 525 - g.x0 : g.x0 - x0 - 525) / g.c * 1000), easing: 'ease-out' }).onfinish = () => e.remove();
+    }
+    if (g.a > 0.9) for (const b of birds) if (b.st === 'sit' && Math.random() < 0.6) b.leaveAt = g.t0 + Math.max(0, (d > 0 ? b.x + 525 - g.x0 : g.x0 - b.x - 525) / g.c);   // 強い風が来たら飛び立つ
+  }
+  // 鳥：1コマ 30×22（scenes.js の BIRD）。コマ＝0 羽を上・1 羽を下・2 滑空・3 止まる・4 ついばむ。足の先(14, 20.6)を止まる点に合わせる
+  const PERCH = [['.w-tree', 66 / 260, 126 / 340], ['.w-tree', 168 / 260, 136 / 340], ['.f-cave', 65 / 150, 21 / 160]], FOOT = [14, 20.6];
+  function perchAt(i) {
+    const [sel, fx, fy] = PERCH[i], sr = stage.getBoundingClientRect(), r = stage.querySelector(sel).getBoundingClientRect();
+    return [(r.left - sr.left + r.width * fx) / scale, (r.top - sr.top + r.height * fy) / scale];
+  }
+  const curve = (p0, p1, p2) => (u) => [(1 - u) * (1 - u) * p0[0] + 2 * (1 - u) * u * p1[0] + u * u * p2[0], (1 - u) * (1 - u) * p0[1] + 2 * (1 - u) * u * p1[1] + u * u * p2[1]];
+  function fly(b, to, lift, speed) {   // 今の所から to へ、羽ばたき（0.5秒）と滑空（0.3秒）をくり返して飛ぶ
+    const from = [b.x, b.y], d = Math.hypot(to[0] - from[0], to[1] - from[1]);
+    b.path = curve(from, [(from[0] + to[0]) / 2, Math.min(from[1], to[1]) - lift], to); b.t0 = now(); b.dur = d / speed; b.face = to[0] >= from[0] ? 1 : -1;
+  }
+  function bird(kind = Math.random() < 0.3 ? 'flock' : 'visit', pi) {
+    const hw = wrap.clientWidth / 2 / scale + 40, side = Math.random() < 0.5 ? -1 : 1;
+    if (kind === 'flock') {   // 遠くの空を渡る小さな群れ（止まらない）
+      const y = rnd(50, 140), n = Math.round(rnd(3, 5));
+      for (let i = 0; i < n; i++) { const b = newBird(0.42); b.x = 195 + side * (hw + i * 18); b.y = y + rnd(-10, 10) + i * 4; fly(b, [195 - side * (hw + 20), b.y + rnd(-25, 25)], rnd(5, 20), rnd(55, 75)); b.st = 'pass'; b.ph = rnd(0, 1); }
+      return;
+    }
+    const free = PERCH.map((_, i) => i).filter((i) => !birds.some((x) => x.perch === i));
+    if (!free.length) return;
+    const b = newBird(1); b.perch = pi != null && free.includes(pi) ? pi : free[Math.floor(Math.random() * free.length)];
+    b.x = 195 + side * hw; b.y = rnd(70, 170);
+    fly(b, perchAt(b.perch), rnd(30, 80), rnd(120, 160)); b.st = 'in';
+  }
+  function newBird(sc) { const e = el('i', 'bird'); birdsBox.append(e); const b = { e, sc, x: 0, y: 0, face: 1, f: -1, st: '', ph: 0 }; birds.push(b); return b; }
+  function birdTick(b, t) {
+    let fr = 3, bob = 0;
+    if (b.st === 'in' || b.st === 'out' || b.st === 'pass') {
+      const u = Math.min(1, (t - b.t0) / b.dur), [x, y] = b.path(u), k = ((t - b.t0) / 0.8 + b.ph) % 1, flap = k < 0.62;
+      b.x = x; b.y = y;
+      fr = b.st === 'in' && u > 0.9 ? ((t * 20) | 0) % 2 : flap ? ((t * 14) | 0) % 2 : 2;   // 止まる直前は小刻みに羽ばたいて速さを殺す
+      bob = (1 - u * (b.st === 'in')) * (flap ? -2.5 * Math.sin(Math.PI * k / 0.62) : 2 * Math.sin(Math.PI * (k - 0.62) / 0.38));
+      if (u >= 1) {
+        if (b.st === 'in') { b.st = 'sit'; b.leaveAt = t + rnd(6, 14); b.next = t + rnd(0.8, 2); bob = 0; fr = 3; }
+        else { b.e.remove(); birds.splice(birds.indexOf(b), 1); return; }
+      }
+    } else if (b.st === 'sit') {   // 止まった所のまま（世界樹のしなりは横に1px ほどで、枝の上の縁から浮かない）
+      if (t > b.next) { const r = Math.random(); if (r < 0.5) b.face = -b.face; else if (r < 0.85) b.peck = t + 0.35; b.next = t + rnd(1, 2.6); }
+      fr = b.peck > t ? 4 : 3;
+      if (t > b.leaveAt) { const hw = wrap.clientWidth / 2 / scale + 40, s = Math.random() < 0.5 ? -1 : 1; b.perch = -1; fly(b, [195 + s * hw, rnd(40, 140)], rnd(10, 40), rnd(150, 190)); b.st = 'out'; }
+    }
+    if (fr !== b.f) { b.f = fr; b.e.style.backgroundPosition = `${-fr * 30}px 0`; }
+    b.e.style.transform = `translate(${(b.x - FOOT[0]).toFixed(1)}px,${(b.y - FOOT[1] + bob).toFixed(1)}px) scale(${b.face * b.sc},${b.sc})`;
+  }
+  let raf = 0, lastT = 0, running = false, wtBase = '', wtA = 0, wtV = 0, nextGust = 0, nextBird = 0, nextCloud = 0;
+  function tick(ms) {
+    raf = requestAnimationFrame(tick);
+    const t = ms / 1000, dt = Math.min(0.05, lastT ? t - lastT : 0.016), wide = wrap.classList.contains('wide');
+    lastT = t;
+    for (const tr of trees) {
+      if (tr.wide !== wide) continue;
+      const k = (2 * Math.PI * tr.f) ** 2;
+      tr.v += (k * (tr.g * wind(tr.x, t) - tr.a) - 0.44 * Math.sqrt(k) * tr.v) * dt; tr.a += tr.v * dt;
+      const s = (-tr.a).toFixed(2); if (s !== tr.s) { tr.s = s; tr.e.style.transform = `skewX(${s}deg)`; }
+    }
+    if (wt) { const k = (2 * Math.PI * 0.32) ** 2; wtV += (k * (0.22 * wind(720, t) - wtA) - 0.5 * Math.sqrt(k) * wtV) * dt; wtA += wtV * dt; wt.style.transform = `${wtBase} skewX(${(-wtA).toFixed(2)}deg)`; }
+    for (const b of birds.slice()) birdTick(b, t);
+    for (let i = gusts.length - 1; i >= 0; i--) if (t > gusts[i].t0 + 1700 / gusts[i].c + gusts[i].len) gusts.splice(i, 1);
+    if (t > nextGust) { gust(); nextGust = t + rnd(12, 30); }
+    if (t > nextBird) { if (day()) bird(); nextBird = t + rnd(18, 45); }
+    if (t > nextCloud) { if (day()) cloudPass(); nextCloud = t + rnd(40, 90); }
+  }
+  function cloudPass() {   // 雲の影が地面を横切り、その間は陽の光が薄れる
+    const W = wrap.clientWidth, cw = cloud.offsetWidth, d = Math.random() < 0.8 ? 1 : -1, dur = rnd(16000, 24000);
+    cloud.animate([{ transform: `translateX(${d > 0 ? -cw : W}px)`, opacity: 0 }, { offset: 0.12, opacity: 1 }, { offset: 0.88, opacity: 1 }, { transform: `translateX(${d > 0 ? W : -cw}px)`, opacity: 0 }], { duration: dur, easing: 'linear' });
+    for (const [e, k] of [[glowEl, 0.5], [raysEl, 0.35]]) { const o = +getComputedStyle(e).opacity; e.animate([{ opacity: o }, { offset: 0.3, opacity: o }, { offset: 0.45, opacity: o * k }, { offset: 0.62, opacity: o * k }, { offset: 0.78, opacity: o }, { opacity: o }], { duration: dur, easing: 'ease-in-out' }); }
+  }
+  function lifeStart() {
+    if (reduce || running || !TR) return;
+    running = true; lastT = 0;
+    if (wt) { wt.style.transform = ''; wtBase = getComputedStyle(wt).transform; if (wtBase === 'none') wtBase = ''; }
+    const t = now(); nextGust = t + rnd(3, 8); nextBird = t + rnd(5, 12); nextCloud = t + rnd(15, 40);
+    raf = requestAnimationFrame(tick);
+  }
+  function lifeStop() {
+    running = false; cancelAnimationFrame(raf); gusts.length = 0;
+    for (const b of birds) b.e.remove(); birds.length = 0;
+    for (const tr of trees) { tr.a = tr.v = 0; tr.s = ''; tr.e.style.transform = ''; }
+    if (wt) wt.style.transform = '';
+  }
+
   // ---------- はじめ ----------
-  fit(); applyLight(); measure(); refreshMarks();
+  fit(); placeTrees(); applyLight(); measure(); refreshMarks();
   const k0 = stageOf();
   depth = (history.state && history.state.depth) || 0;
   if (location.hash && !k0) setStage('');   // 知らない # は消して、ふつうの最初の画面
   if (k0) show(k0);   // 戻ってきた時：その段から、動きも音もなしに
   else if (seen.has('map')) { open(true); setStage('mura'); }   // 2度目からは、ひらいた見開きから（積まない）
   let rz = 0;
-  addEventListener('resize', () => { cancelAnimationFrame(rz); rz = requestAnimationFrame(() => { fit(); if (state !== 'opening') measure(); }); });
+  addEventListener('resize', () => { cancelAnimationFrame(rz); rz = requestAnimationFrame(() => { fit(); placeTrees(); if (state !== 'opening') measure(); }); });
   // 検査が見るための窓（ページの動きは変えない）
   window.__kobo = Object.freeze({
     state: () => state, played: () => played.slice(), level, notes: () => Object.entries(SONG).flatMap(([n, l]) => l.flatMap(([i, m]) => (i === 'shake' ? [] : [].concat(m).map((x) => [n, x])))),   // 鈴のシャンは高さの無い金属音なので除く
     bgm: () => (bgm ? { no: bgm.no, on: bgm.on, els: bgm.els.map((x) => ({ paused: x.a.paused, t: x.a.currentTime, g: x.g.gain.value, no: x.no })) } : null),
     choose: (iso, place) => choose(new Date(iso), place || null), light, south: () => south,
+    life: Object.freeze({   // 森の時間：突風・鳥を今すぐ起こす／木と鳥の今の様子／止まる点
+      gust: (d) => gust(d), bird: (kind, i) => bird(kind, i), day, running: () => running, perch: (i) => perchAt(i),
+      hush: () => { nextGust = nextBird = nextCloud = Infinity; },   // ひとりでに起きる風・鳥・雲を止める（検査の間だけ）
+      trees: () => trees.map((t) => ({ x: t.x, a: t.a, wide: t.wide, front: t.c[8], tf: t.e.style.transform })),
+      birds: () => birds.map((b) => ({ st: b.st, x: b.x, y: b.y, f: b.f, perch: b.perch, rect: b.e.getBoundingClientRect().toJSON() })),
+    }),
   });
 })();

diff --git a/style.css b/style.css
@@ -40,6 +40,23 @@ a{color:inherit}
 .wide .forest-c{display:none}   /* 左右に空きがある時は、まん中の絵も同じ1枚の層に描く（舞台のふちに境目の筋を出さない） */
 .stage.open~.forest-wide{opacity:1}
 .stage.instant~.forest-wide{transition:none!important}
+/* 森の木（風で揺れる部品・白地）：森の地に掛け算で重ねる（森の膜は掛け算なので、前の1枚の森と同じ色）。
+   箱でくくらない（くくると掛け算が箱の中だけになり、白地が出る）。スマホは舞台の中・PC は舞台の外の森の層の上。JS が根元を軸にしならせる */
+.tr{position:absolute;display:block;left:0;top:0;pointer-events:none;mix-blend-mode:multiply;background-repeat:no-repeat}
+.tr.s0{background-image:url(img/trees_c.webp)}
+.tr.s1{background-image:url(img/trees_w.webp)}
+.wide .stage>.tr,.trees-w{display:none}
+.wide .trees-w{display:block}
+.trees-w>.tr{opacity:0;transition:opacity .9s ease .1s}
+.stage.open~.trees-w>.tr{opacity:1}
+.stage.instant~.trees-w>.tr{transition:none!important}
+/* 鳥（メジロ・飛び出す紙）：5コマを横に並べた絵。JS がコマと位置を決める（足の先が止まる点） */
+.birds{position:absolute;left:0;top:0}
+.bird{position:absolute;left:0;top:0;width:30px;height:22px;background:url(img/bird.webp) 0 0/150px 22px no-repeat;transform-origin:14px 20.6px;pointer-events:none}
+/* 雲の影：地面を横切る淡い影（掛け算）。JS が流す */
+.t-cloud{position:absolute;left:0;top:28%;width:70%;height:74%;opacity:0;mix-blend-mode:multiply;
+  background:radial-gradient(closest-side,rgba(64,74,100,.3),rgba(64,74,100,.14) 62%,rgba(64,74,100,0))}
+.gleaf{position:absolute;left:0;top:0;width:9px;height:5px;border-radius:9px 0;background:linear-gradient(135deg,#a7c98a,#6f9a5c);opacity:0}
 
 /* ---------- 時刻の光：見る人の端末の本当の時刻で、JS が色と陽の位置の変数を決める（ひらいた時だけ・閉じた本は変えない） ----------
    空と地面の色は掛け算（紙の白さは残る）・陽の光と光の筋は足し算・夜は星。上下のふちは紙の色へなじませる */

diff --git a/index.html b/index.html
@@ -50,9 +50,11 @@
           </div>
         </div>
       </div>
+      <div class="birds" aria-hidden="true"></div>
     </div>
     <div class="forest-wide" aria-hidden="true"></div>
-    <div class="tint" aria-hidden="true"><span class="t-mul"></span><span class="t-glow"></span><span class="t-moon"></span><span class="t-rays"></span><span class="t-stars"></span></div>
+    <div class="trees-w" aria-hidden="true"></div>
+    <div class="tint" aria-hidden="true"><span class="t-mul"></span><span class="t-cloud"></span><span class="t-glow"></span><span class="t-moon"></span><span class="t-rays"></span><span class="t-stars"></span></div>
     <div class="stage-ui" id="stageUi">
       <div class="ambient" aria-hidden="true">
         <span class="lamp lamp-door"></span><span class="lamp lamp-cave"></span>
